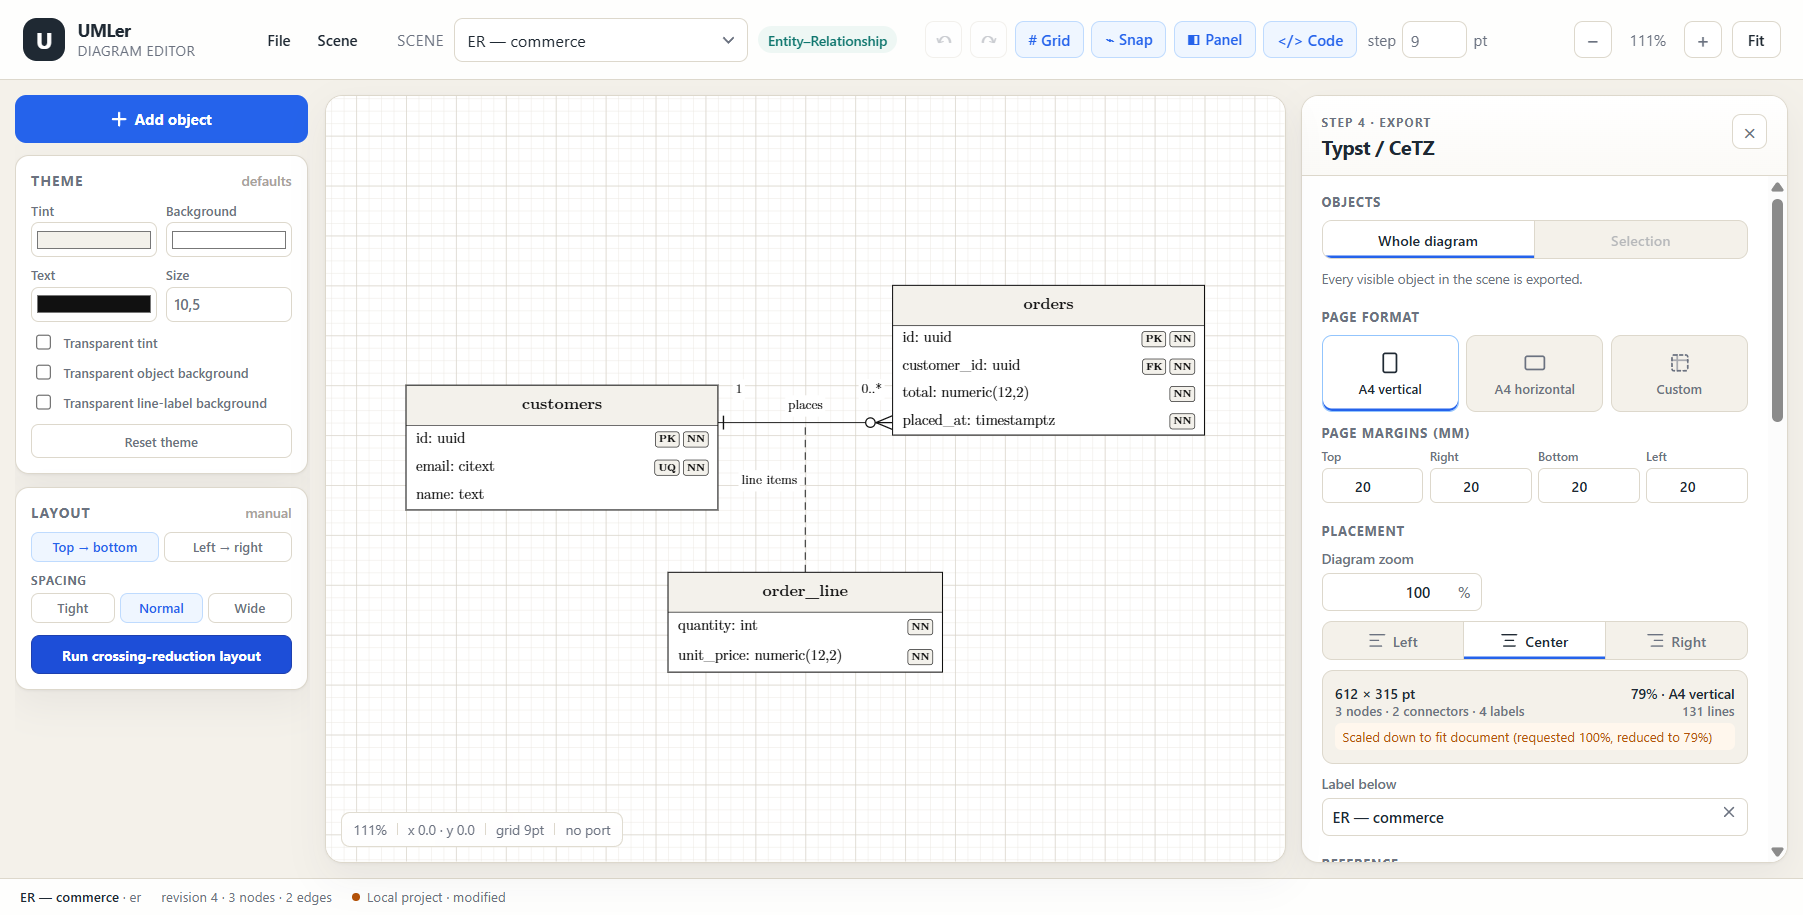
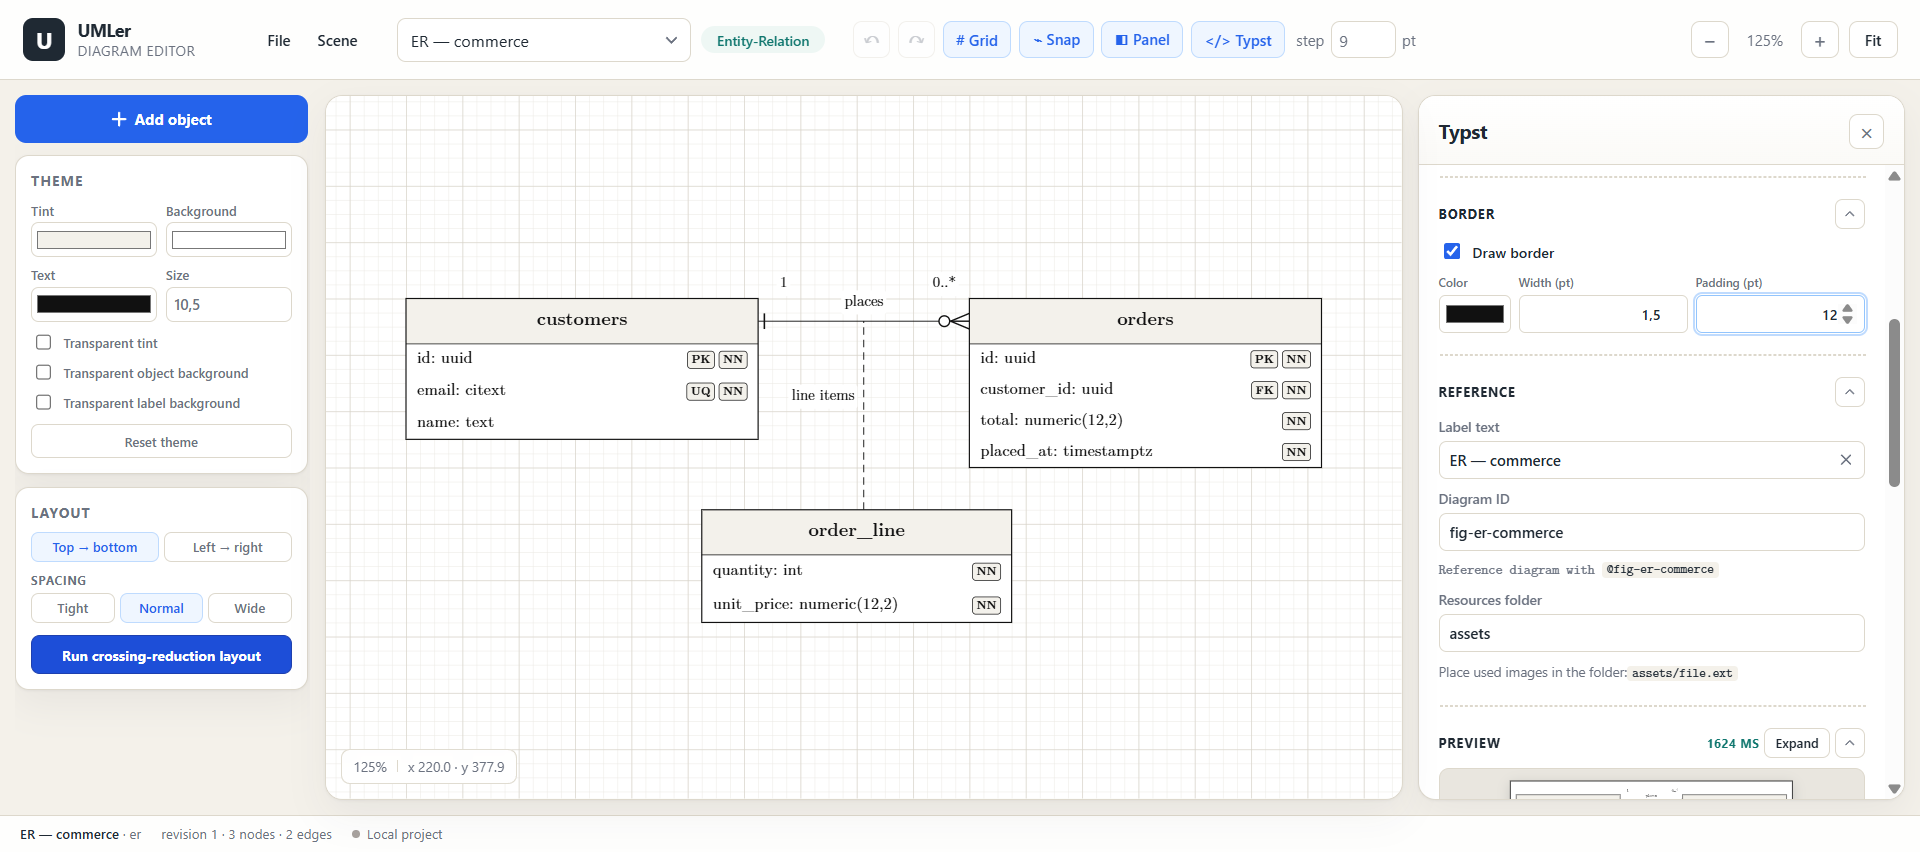
screenshots

diff --git a/README.md b/README.md
@@ -118,7 +118,8 @@ chooser opens.
   downloaded file prepends the versioned CeTZ import so it can be included directly.
 - **Page fitting never stretches implicitly.** At 100% a small diagram keeps its natural size; it is only
   reduced (aspect ratio preserved) when it would not fit the page. An explicit zoom above 100% is honoured
-  until the page limit. Selection export keeps absolute object sizes; only the origin moves.
+  until the page limit. Selection export keeps absolute object sizes; only the origin moves. Border padding
+  and stroke width are part of the natural canvas and therefore of the fit calculation.
 - **Typst output is safe and readable**: it uses the host's imported `canvas` and `draw` names
   (`#import "@preview/cetz:0.5.3": canvas, draw` or `: *`), literal `#("…")` text escaping, **body text
   inheriting the host document font** (only explicit monospace overrides name a family), explicit
